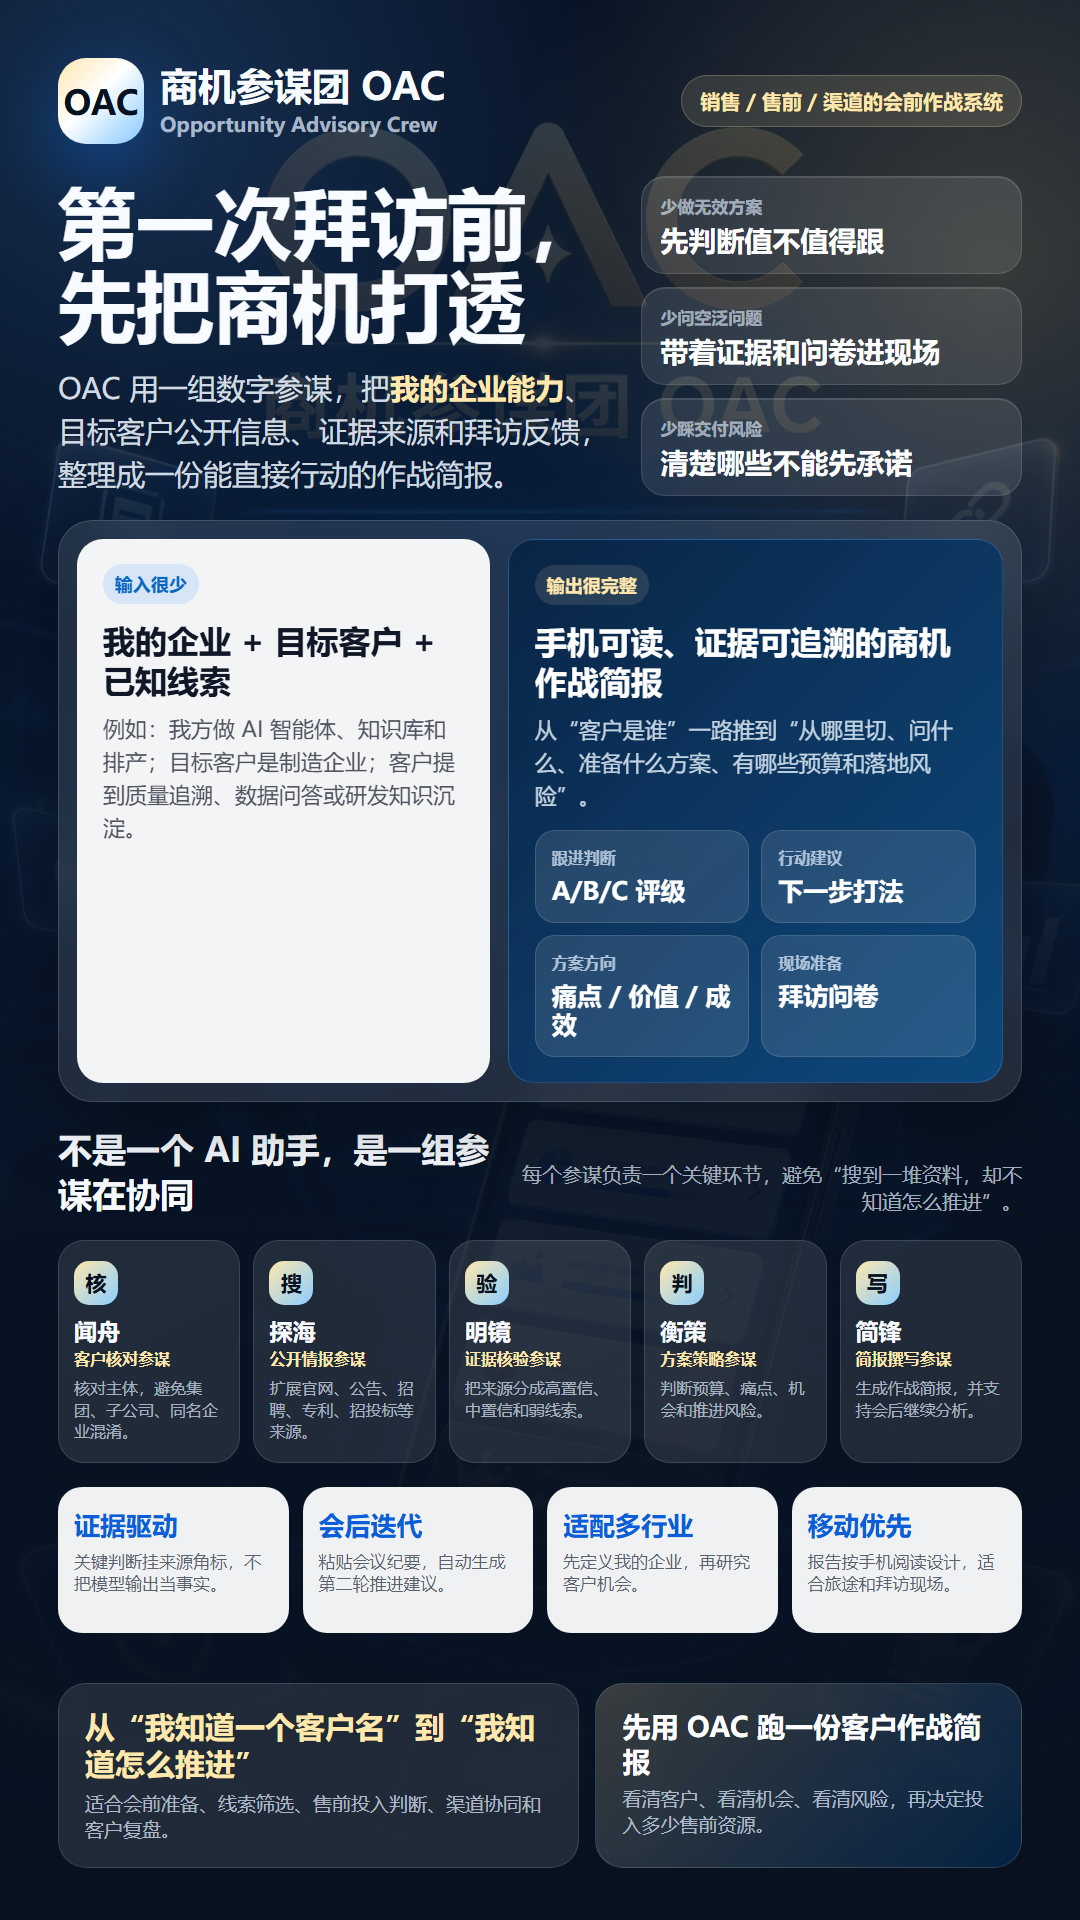
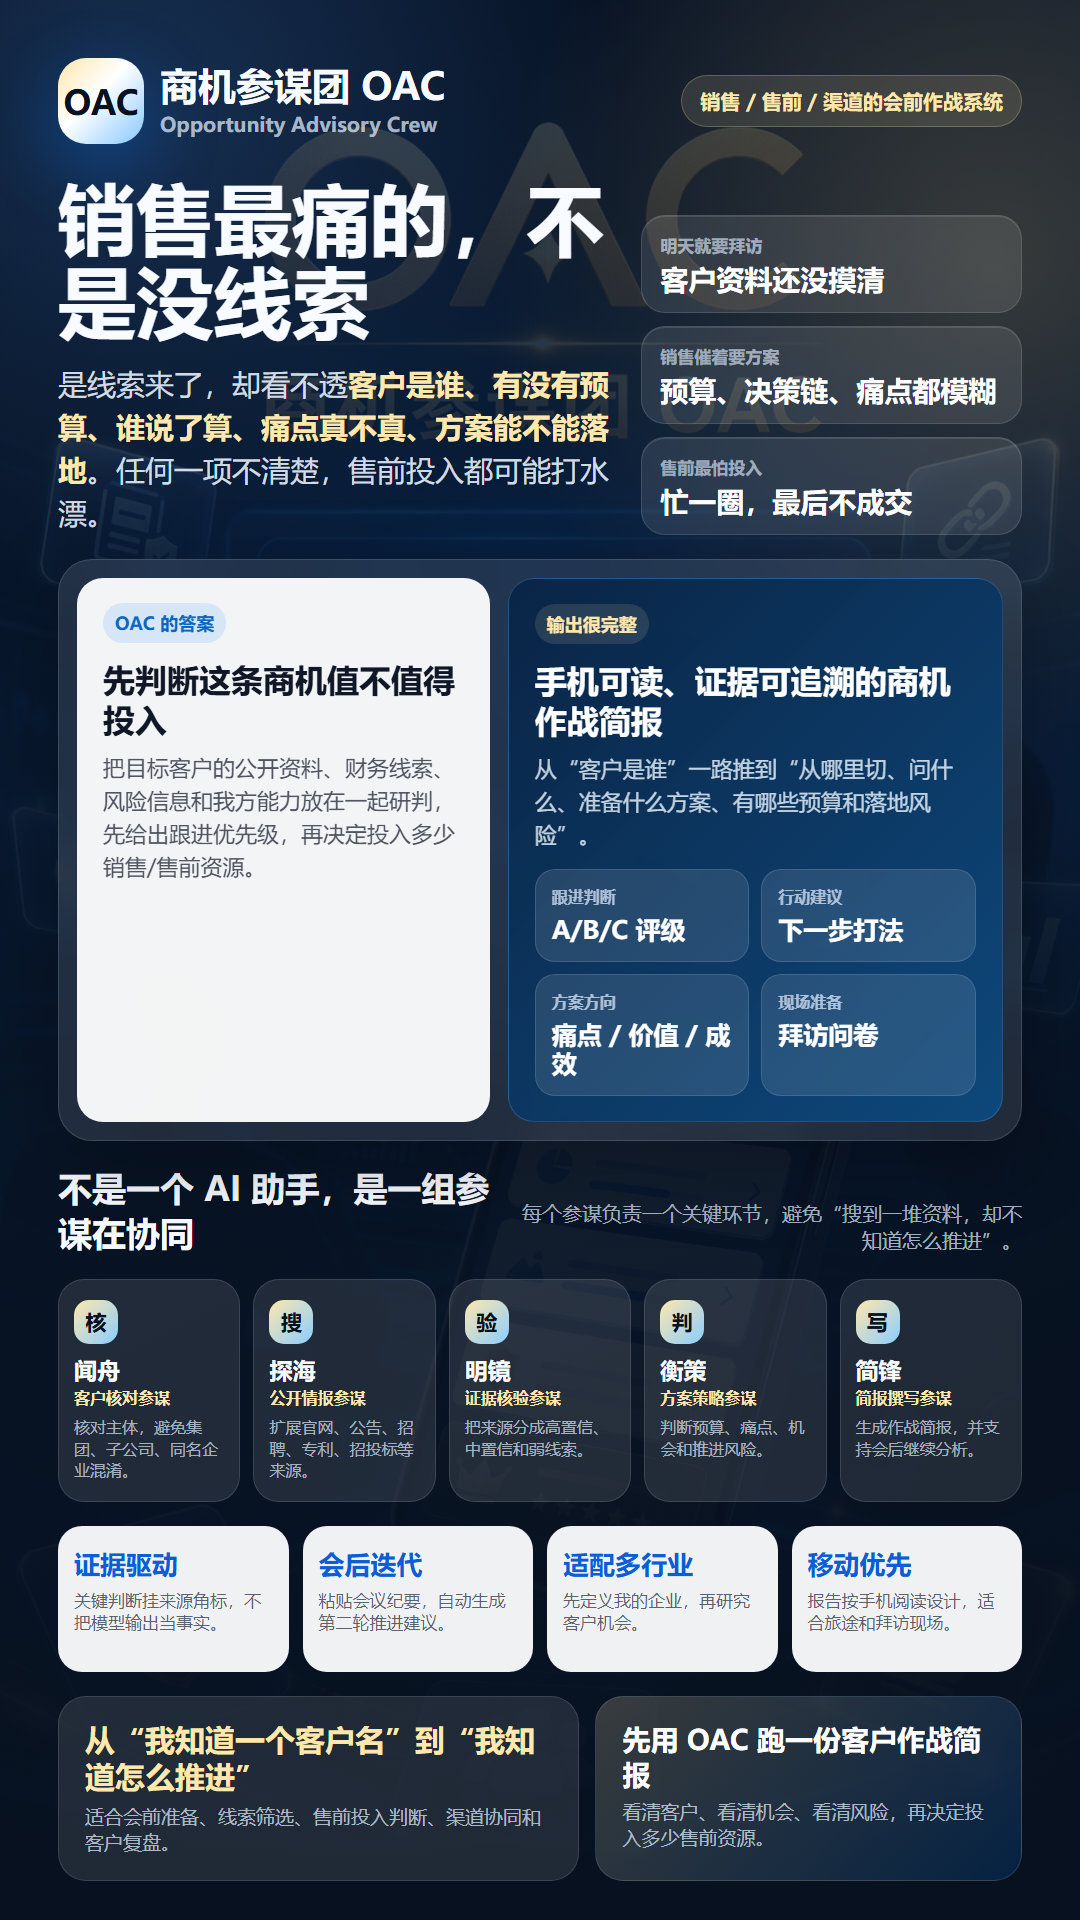
Make OAC poster pain-first

Changed region(s): [[0.0306, 0.0938, 0.9472, 1.0]]

diff --git a/docs-assets/oac-promo-poster.html b/docs-assets/oac-promo-poster.html
@@ -355,21 +355,21 @@
 
       <section class="hero">
         <div>
-          <h1>第一次拜访前，先把商机打透</h1>
-          <p class="lead">OAC 用一组数字参谋，把<strong>我的企业能力</strong>、目标客户公开信息、证据来源和拜访反馈，整理成一份能直接行动的作战简报。</p>
+          <h1>销售最痛的，不是没线索</h1>
+          <p class="lead">是线索来了，却看不透<strong>客户是谁、有没有预算、谁说了算、痛点真不真、方案能不能落地</strong>。任何一项不清楚，售前投入都可能打水漂。</p>
         </div>
         <div class="promise">
-          <article><small>少做无效方案</small><b>先判断值不值得跟</b></article>
-          <article><small>少问空泛问题</small><b>带着证据和问卷进现场</b></article>
-          <article><small>少踩交付风险</small><b>清楚哪些不能先承诺</b></article>
+          <article><small>明天就要拜访</small><b>客户资料还没摸清</b></article>
+          <article><small>销售催着要方案</small><b>预算、决策链、痛点都模糊</b></article>
+          <article><small>售前最怕投入</small><b>忙一圈，最后不成交</b></article>
         </div>
       </section>
 
       <section class="flow">
         <article class="panel">
-          <span class="chip">输入很少</span>
-          <h2>我的企业 + 目标客户 + 已知线索</h2>
-          <p>例如：我方做 AI 智能体、知识库和排产；目标客户是制造企业；客户提到质量追溯、数据问答或研发知识沉淀。</p>
+          <span class="chip">OAC 的答案</span>
+          <h2>先判断这条商机值不值得投入</h2>
+          <p>把目标客户的公开资料、财务线索、风险信息和我方能力放在一起研判，先给出跟进优先级，再决定投入多少销售/售前资源。</p>
         </article>
         <article class="panel dark">
           <span class="chip">输出很完整</span>
